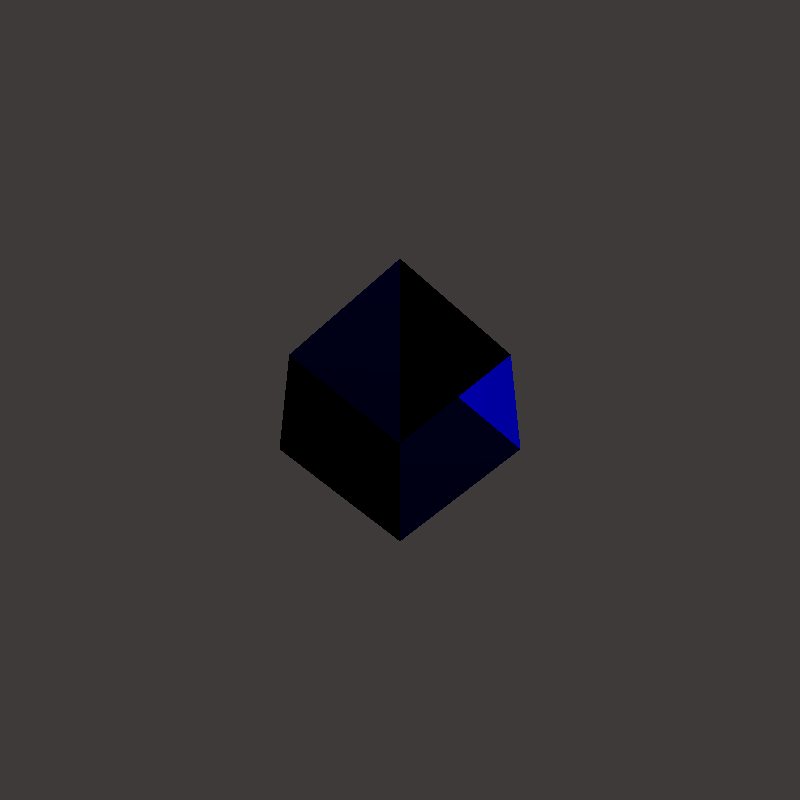
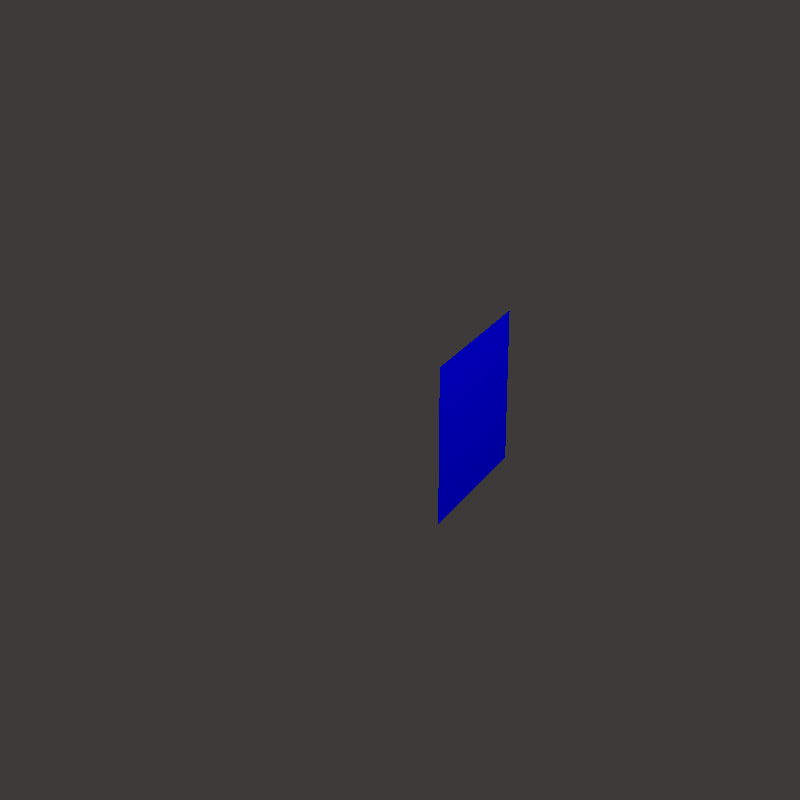
Fixed UP

Changed region(s): [[0.3438, 0.3125, 0.6562, 0.6875]]

diff --git a/renderer/BlinnPhong.cpp b/renderer/BlinnPhong.cpp
@@ -4,7 +4,7 @@
 
 #include "BlinnPhong.h"
 #include <math.h>
-
+#include <cfloat>
 
 
 sivelab::Vector3D BlinnPhong::applyShader(Ray &r, std::vector<Light *> &lights, std::vector<Shape *> &shapes, HitStruct &h ){
@@ -13,24 +13,31 @@ sivelab::Vector3D BlinnPhong::applyShader(Ray &r, std::vector<Light *> &lights, 
     int lightSize = lights.size();
 
     for(int i = 0; i < lights.size(); i++) {
-        if(newColor[0]<=1 && newColor[1]<=1 && newColor[2]<=1) {
-            sivelab::Vector3D lightP = lights[i]->getPosition();
-            sivelab::Vector3D hP = h.getPointInterect();
-            //Yes, this is backwords because I wanted the negative direction/reverse direction.
-            //Used light as the head minus hit intersect as the tail.
 
-            sivelab::Vector3D lightDir(lightP[0] - hP[0], lightP[1] - hP[1], lightP[2] - hP[2]);
-            lightDir.normalize();
-            sivelab::Vector3D normal = h.getNorm();
-            normal.normalize();
+        sivelab::Vector3D lightP = lights[i]->getPosition();
+        sivelab::Vector3D hP = h.getPointInterect();
+        //Yes, this is backwords because I wanted the negative direction/reverse direction.
+        //Used light as the head minus hit intersect as the tail.
 
-            sivelab::Vector3D H = (lightDir + (r.getDirection()) * -1);
-            H.normalize();
+        sivelab::Vector3D lightDir(lightP[0] - hP[0], lightP[1] - hP[1], lightP[2] - hP[2]);
+        sivelab::Vector3D shadowDir(lightP[0] - hP[0], lightP[1] - hP[1], lightP[2] - hP[2]);
+        lightDir.normalize();
+        sivelab::Vector3D normal = h.getNorm();
+        normal.normalize();
 
-            double Ks = pow(std::max(normal.dot(H), 0.0), phongExp);
-            newColor += (lights[i]->getIntensity() * getColor() *
-                         std::max(0.0, normal.dot(lightDir)));
-            newColor += specular * Ks;
+        sivelab::Vector3D H = (lightDir + (r.getDirection()) * -1);
+        H.normalize();
+
+        double Ks = pow(std::max(normal.dot(H), 0.0), phongExp);
+
+        sivelab::Vector3D testHp = hP + (shadowDir * 0.0001);
+        Ray sRay = Ray(shadowDir, testHp);
+
+
+        if(!VisibilityQuery(sRay, 0.0001, DBL_MAX , shapes)){
+        newColor += (lights[i]->getIntensity() * getColor() *
+                     std::max(0.0, normal.dot(lightDir)));
+        newColor += specular * Ks;
         }
     }
 
@@ -43,4 +50,15 @@ BlinnPhong::BlinnPhong(const Vector3D &diffuse, const Vector3D &specular, float 
                                                                                             specular(specular),
                                                                                             phongExp(phongExp) {
     setColor(diffuse);
+}
+
+
+bool BlinnPhong::VisibilityQuery(Ray r, double tmin, double tmax, std::vector<Shape *> &shapes){
+
+    HitStruct h;
+    for(int i = 0; i<shapes.size();i++){
+        if(shapes[i]->intersect(tmin,tmax, h,r)) return true;
+    }
+    return false;
+
 }

diff --git a/examples/cameraTester.cpp b/examples/cameraTester.cpp
@@ -19,69 +19,37 @@
 #include "../renderer/Sphere.h"
 #include "../renderer/HitStruct.h"
 #include <limits>
-#include <string>
-#include "../renderer/Shader.h"
-
 using namespace sivelab;
-
-inline bool exists_test1 (const std::string& name);
 
 int main(int argc, char *argv[]){
 
-    GraphicsArgs args;
-    args.process(argc, argv);
-    framebuffer fb(args.width, args.height);
+    framebuffer fb(350, 350);
     int temp = fb.getHeight();
-    SceneContainer sc;
-    std::string path = args.inputFileName;
-    if(exists_test1(path)){
-        sc.parseJSONData(path);
-    }
-
-    //std::map<std::string, Shader *> colors = sc.getShaders();
-
+//SceneContainer sc;
+    Sphere s;
     HitStruct h;
-    // focal length  = 1, image plane width = 0.5, position = (0, 0, 0), view direction = (0, 0, -1)
-    // POSITION - DIRECTION - FOCAL LENGTH - ASPECT RATIO - IMAGE PLANE WIDTH
-    //PerspectiveCamera *pCam= new PerspectiveCamera(sivelab::Vector3D(0, 0, 0), sivelab::Vector3D(0, 0, -1), 1, 0.5, 0.5);
-
-    Camera *pCam = sc.getCameras()[0];
-    pCam->setWidth(args.width);
-    pCam->setHeight(args.height);
+//sc.addShapes(s);
+//    PerspectiveCamera(sivelab::Vector3D position, sivelab::Vector3D direction, double focalLength, double m_aspectRation, double imageWidth);
+// Create your Perspective Camera using
+// focal length  = 1, image plane width = 0.5, position = (0, 0, 0), view direction = (0, 0, -1)
+    PerspectiveCamera *pCam= new PerspectiveCamera(sivelab::Vector3D(0,0,0), sivelab::Vector3D(0,0,-1),0.05,1,0.5);
     for (int j=0; j<fb.getHeight(); ++j) {
         for (int i=0; i<fb.getWidth(); ++i) {
             Ray r;
             r = pCam->generateRay(i,j);
-            sivelab::Vector3D rgb = sivelab::Vector3D(-1,-1,-1);  //r.getDirection();
-            double tmax = DBL_MAX;
-            Shape *s = sc.getShapes()[0];
-            for(int i = 0; i< sc.getShapes().size();i++){
-                if(sc.getShapes()[i]->intersect(0.05,tmax,h,r)){
-                    if(sc.getShapes()[i]->getTvalue()<tmax){
-                        tmax = sc.getShapes()[i]->getTvalue();
-                        rgb = sc.getShaders().at(sc.getShapes()[i]->getColor())->getColor();
-                    }
-                }
-            }
+
+
+
+            sivelab::Vector3D rgb = r.getDirection();
             rgb[0] += 1;
             rgb[1] += 1;
             rgb[2] += 1;
             rgb /= 2.0;
+
             fb.setPixelColor(rgb, i, j, fb.getWidth());
         }
     }
 
     fb.export_png();
 
-}
-
-
-
-inline bool exists_test1 (const std::string& name) {
-    if (FILE *file = fopen(name.c_str(), "r")) {
-        fclose(file);
-        return true;
-    } else {
-        return false;
-    }
 }

diff --git a/renderer/Box.cpp b/renderer/Box.cpp
@@ -22,25 +22,25 @@ Box::Box(sivelab::Vector3D minPt, sivelab::Vector3D maxPt) : minPt(minPt), maxPt
     pts[7] = sivelab::Vector3D(pts[1][0], pts[1][1], pts[0][2]);  //max, max, min
 
 
-
-    //top of box (6,2,8,4)
-    triangles[0] = Triangle(pts[5],pts[1],pts[7]);
-    triangles[1] = Triangle(pts[5],pts[3],pts[7]);
-    //bottom of box (3,7,5,1)
-    triangles[2] = Triangle(pts[2],pts[6],pts[4]);
-    triangles[3] = Triangle(pts[2],pts[0],pts[4]);
-    //front
-    triangles[4] = Triangle(pts[3],pts[7],pts[4]);
-    triangles[5] = Triangle(pts[3],pts[0],pts[4]);
+//
+//    //top of box (6,2,8,4)
+//    triangles[0] = Triangle(pts[7],pts[5],pts[1]);
+//    triangles[1] = Triangle(pts[7],pts[3],pts[5]);
+//    //bottom of box (3,7,5,1)
+//    triangles[2] = Triangle(pts[2],pts[6],pts[4]);
+//    triangles[3] = Triangle(pts[2],pts[4],pts[0]);
+//    //front
+//    triangles[4] = Triangle(pts[4],pts[7],pts[3]);
+//    triangles[5] = Triangle(pts[4],pts[3],pts[0]);
     //Back
     triangles[6] = Triangle(pts[5],pts[2],pts[6]);
-    triangles[7] = Triangle(pts[5],pts[1],pts[6]);
-    // left side
-    triangles[8] = Triangle(pts[5],pts[2],pts[0]);
-    triangles[9] = Triangle(pts[5],pts[3],pts[0]);
-    // right side
-    triangles[10] = Triangle(pts[1],pts[6],pts[4]);
-    triangles[11] = Triangle(pts[1],pts[7],pts[4]);
+    triangles[7] = Triangle(pts[5],pts[6],pts[1]);
+//    // left side
+//    triangles[8] = Triangle(pts[5],pts[2],pts[0]);
+//    triangles[9] = Triangle(pts[5],pts[3],pts[0]);
+//    // right side
+//    triangles[10] = Triangle(pts[1],pts[6],pts[4]);
+//    triangles[11] = Triangle(pts[1],pts[7],pts[4]);
 }
 
 /**

diff --git a/renderer/Lambertian.cpp b/renderer/Lambertian.cpp
@@ -20,20 +20,20 @@ sivelab::Vector3D Lambertian::applyShader(Ray &r, std::vector<Light *> &lights, 
         sivelab::Vector3D lightP = lights[i]->getPosition();
         sivelab::Vector3D hP = h.getPointInterect();
         sivelab::Vector3D lightDir(lightP[0] - hP[0], lightP[1] - hP[1], lightP[2] - hP[2]);
+        sivelab::Vector3D shadowDir(lightP[0] - hP[0], lightP[1] - hP[1], lightP[2] - hP[2]);
 
         lightDir.normalize();
         sivelab::Vector3D normal = h.getNorm();
         normal.normalize();
         intensity += lights[i]->getIntensity()*std::max(0.0f, (float) normal.dot(lightDir));
-        Ray sRay = Ray(lightDir, hP);
+        sivelab::Vector3D testHp = hP + (shadowDir * 0.0001);
+        Ray sRay = Ray(shadowDir, testHp);
+
 
         if(!VisibilityQuery(sRay, 0.0001, DBL_MAX , shapes)){
             newColor += intensity * getColor() * sivelab::Vector3D(1, 1, 1);
             newColor = newColor.clamp(0.0,1.0);
         }
-
-
-
     }
 
 

diff --git a/renderer/CoordinateSystem.cpp b/renderer/CoordinateSystem.cpp
@@ -14,9 +14,9 @@ CoordinateSystem::CoordinateSystem(){
  * @param temp
  */
 CoordinateSystem::CoordinateSystem(sivelab::Vector3D direction, sivelab::Vector3D temp){
-    if(direction.dot(temp)!=0.0){
-        temp = sivelab::Vector3D(1.0,0.0,0.0);
-    }
+
+    temp = sivelab::Vector3D(0.0,1.0,0.0);
+
 
     W = (-1*direction)/direction.length();
     W.normalize();

diff --git a/renderer/BlinnPhong.h b/renderer/BlinnPhong.h
@@ -21,6 +21,7 @@ protected:
 public:
     BlinnPhong(const Vector3D &diffuse, const Vector3D &specular, float phongExp);
 
+    bool VisibilityQuery(Ray r, double tmin, double tmax, std::vector<Shape *> &shapes);
     sivelab::Vector3D applyShader(Ray &r, std::vector<Light *> &lights, std::vector<Shape *> &shapes, HitStruct &h );
 
 

diff --git a/renderer/Lambertian.h b/renderer/Lambertian.h
@@ -14,6 +14,7 @@ class Lambertian : public Shader {
 public:
     Lambertian(sivelab::Vector3D thisColor);
 
+
     bool VisibilityQuery(Ray r, double tmin, double tmax, std::vector<Shape *> &shapes);
 
     sivelab::Vector3D applyShader(Ray &r, std::vector<Light *> &lights, std::vector<Shape *> &shapes, HitStruct &h );

diff --git a/renderer/Shader.h b/renderer/Shader.h
@@ -55,6 +55,9 @@ public:
 
     const std::string &getName() const;
 
+
+    virtual bool VisibilityQuery(Ray r, double tmin, double tmax, std::vector<Shape *> &shapes) = 0;
+
     virtual sivelab::Vector3D applyShader(Ray &r, std::vector<Light *> &lights, std::vector<Shape *> &shapes, HitStruct &h )=0;
 
 };
